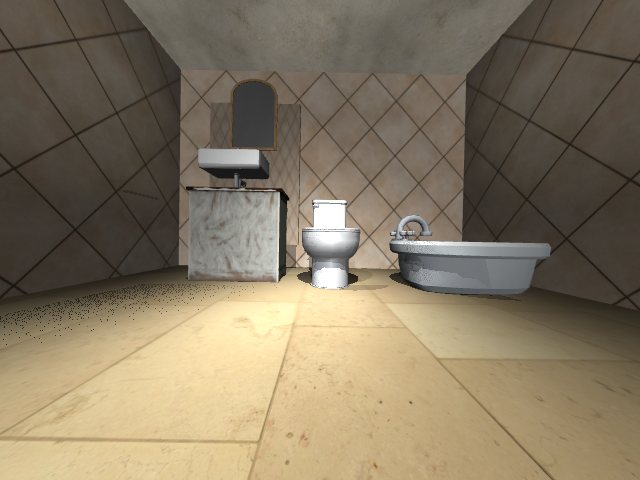
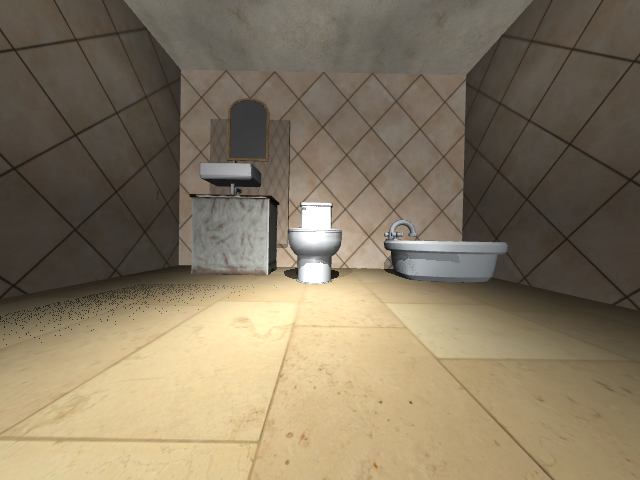
Tighten kit_cam rooms so furniture sits on the walls.
The dining chair is at the table's near side, clear of the stove. The sofa is larger against the back wall, with the CRT beside it instead of on the open floor. The bed is larger, and the nightstand sits beside the head. Bathroom fixtures share the back wall. The entrance mat runs up to the leaf, with the boots beside it. The walk plant is untouched.

Changed region(s): [[0.2812, 0.1562, 0.5938, 0.625], [0.5938, 0.4375, 0.875, 0.625]]

diff --git a/docs/KIT_CAM_ROOM.md b/docs/KIT_CAM_ROOM.md
@@ -8,11 +8,11 @@ Furniture is CC0 textured meshes under `mujoco/assets/rooms/`. Licenses, authors
 
 | Scene | Bodies | What kit_cam is meant to see |
 |-------|--------|------------------------------|
-| `mujoco/room_kitchen.xml` | `kitchen`, `table`, `chair` | Counter, drawer-cabinet pantry, stove front, and kettle facing +X, in one run that does not overlap. Dining table and chair sit off to image-right. Closed beige room, wood floor. No flat yellow backsplash |
-| `mujoco/room_bathroom.xml` | `bathroom`, `sink`, `toilet`, `bathtub` | Vanity and mirror on the left, basin on the vanity, toilet beside the vanity, stylized tub along the right. Closed tile room, marble floor |
-| `mujoco/room_living.xml` | `living`, `tv`, `coffee` | Leather sofa (`living`) against the back wall, cushions toward +X; low coffee table in front; CRT screen to image-right. Closed beige room |
-| `mujoco/room_bedroom.xml` | `bedroom`, `nightstand` | Gothic bed against the back wall, long side toward +X, headboard and nightstand with a lamp toward image-left. Closed plaster room |
-| `mujoco/room_entrance.xml` | `entrance`, `mat`, `shoes`, `console` | Static panel in wood trim against the back wall, hessian mat, rubber boots, and a console to image-left. No hinge, no lever, no latch |
+| `mujoco/room_kitchen.xml` | `kitchen`, `table`, `chair` | Counter, drawer-cabinet pantry, stove front, and kettle facing +X, in one run that does not overlap. The table is in the image-right corner and the chair sits at its near side, clear of the stove. Closed beige room, wood floor. No flat yellow backsplash |
+| `mujoco/room_bathroom.xml` | `bathroom`, `sink`, `toilet`, `bathtub` | Vanity, basin, and mirror against the back-left wall, toilet beside them, stylized tub in the back-right corner. Closed tile room, marble floor |
+| `mujoco/room_living.xml` | `living`, `tv`, `coffee` | Larger leather sofa (`living`) against the back wall, cushions toward +X; coffee table in front; CRT beside the sofa at the same depth, screen toward +X. Closed beige room |
+| `mujoco/room_bedroom.xml` | `bedroom`, `nightstand` | Larger gothic bed against the back wall, long side toward +X. Headboard toward image-left, nightstand and a smaller lamp beside the head, not in the mattress. Closed plaster room |
+| `mujoco/room_entrance.xml` | `entrance`, `mat`, `shoes`, `console` | Static panel in thicker wood trim against the back wall. Hessian mat runs up to the leaf. Boots sit image-right of the mat. Console is image-left, clear of the boots. No hinge, no lever, no latch |
 
 Furniture sits in front of `kit_cam` look (+X), so a quiet stand sees the named room body.
 
